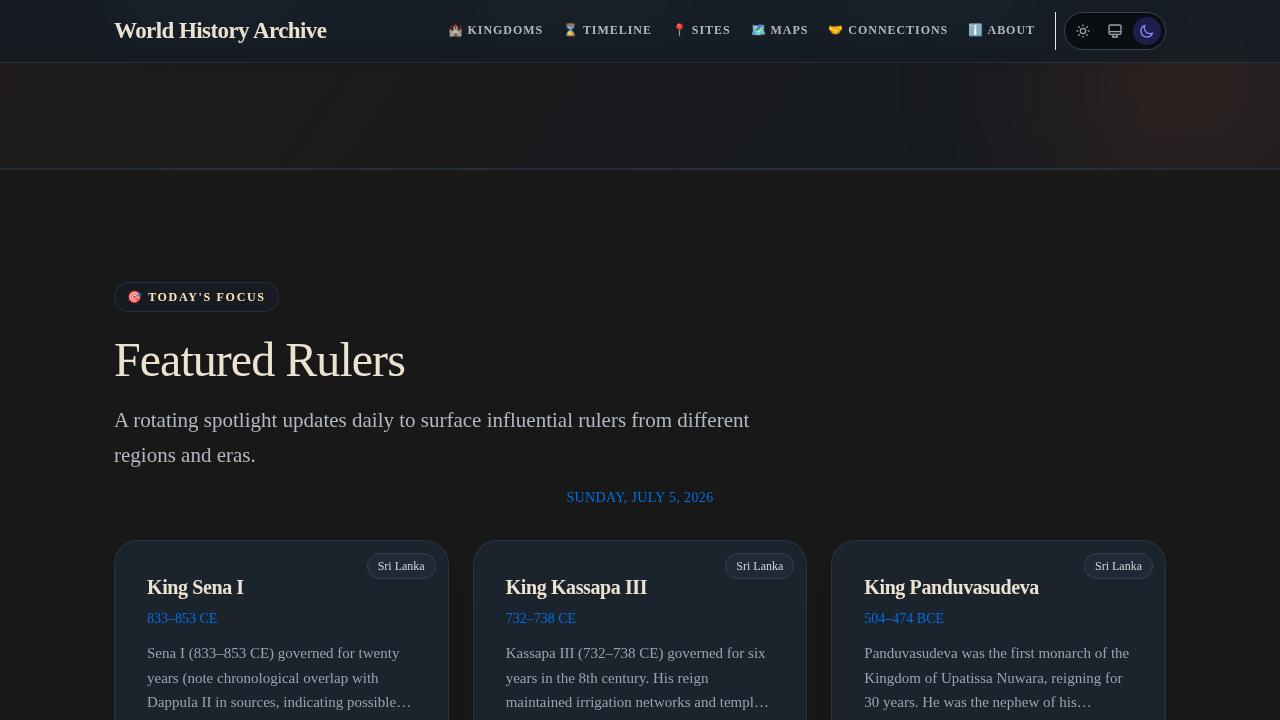
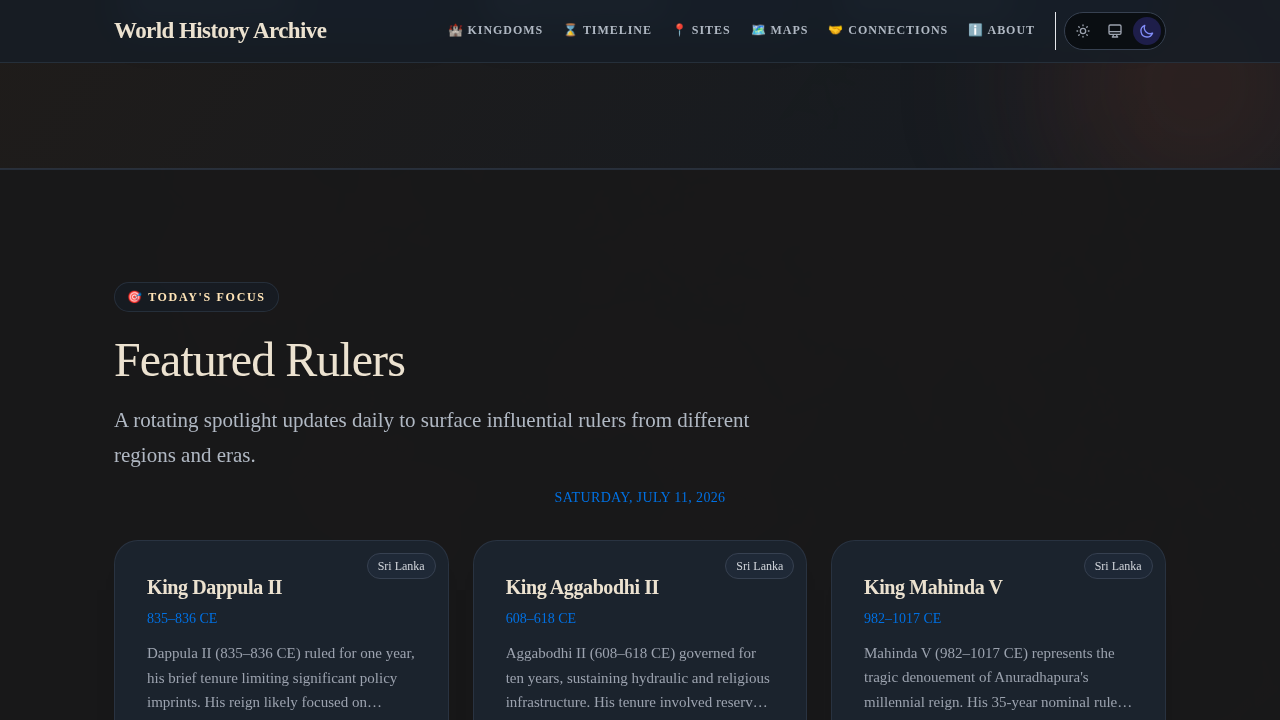
feat: randomize featured kings every day (#102)
Modifies `getDailyKings` in `src/lib/utils.ts` to fully shuffle
and pick a new random set of kings every day, replacing the
previous batched cycle logic.

diff --git a/src/lib/utils.ts b/src/lib/utils.ts
@@ -64,14 +64,9 @@ export function getDailyKings<T>(items: T[], count: number = 6, date: Date = new
   const totalItems = items.length;
   if (totalItems === 0) return [];
 
-  // Calculate which batch we're on to cycle through the list
-  const totalBatches = Math.ceil(totalItems / count);
-  const cycleNumber = Math.floor(dayIndex / totalBatches);
-  const batchIndex = dayIndex % totalBatches;
-
-  // Seed the shuffle based on the cycle number
-  // This ensures the order is randomly shuffled once per cycle
-  let seed = cycleNumber + 12345; // Simple salt
+  // Seed the shuffle based on the day index
+  // This ensures the order is randomly shuffled every day
+  let seed = dayIndex + 12345; // Simple salt
 
   // Simple Linear Congruential Generator (LCG)
   const random = () => {
@@ -89,18 +84,5 @@ export function getDailyKings<T>(items: T[], count: number = 6, date: Date = new
     [shuffled[m], shuffled[i]] = [shuffled[i], shuffled[m]];
   }
 
-  // Select the slice for the current batch
-  const startIndex = batchIndex * count;
-  const endIndex = Math.min(startIndex + count, totalItems);
-
-  let result = shuffled.slice(startIndex, endIndex);
-
-  // If we're at the very end and there aren't enough items, wrap around to the beginning
-  // to ensure we always return 'count' items (only if we have enough total items).
-  if (result.length < count && totalItems > count) {
-      const remainder = count - result.length;
-      result = result.concat(shuffled.slice(0, remainder));
-  }
-
-  return result;
+  return shuffled.slice(0, count);
 }
